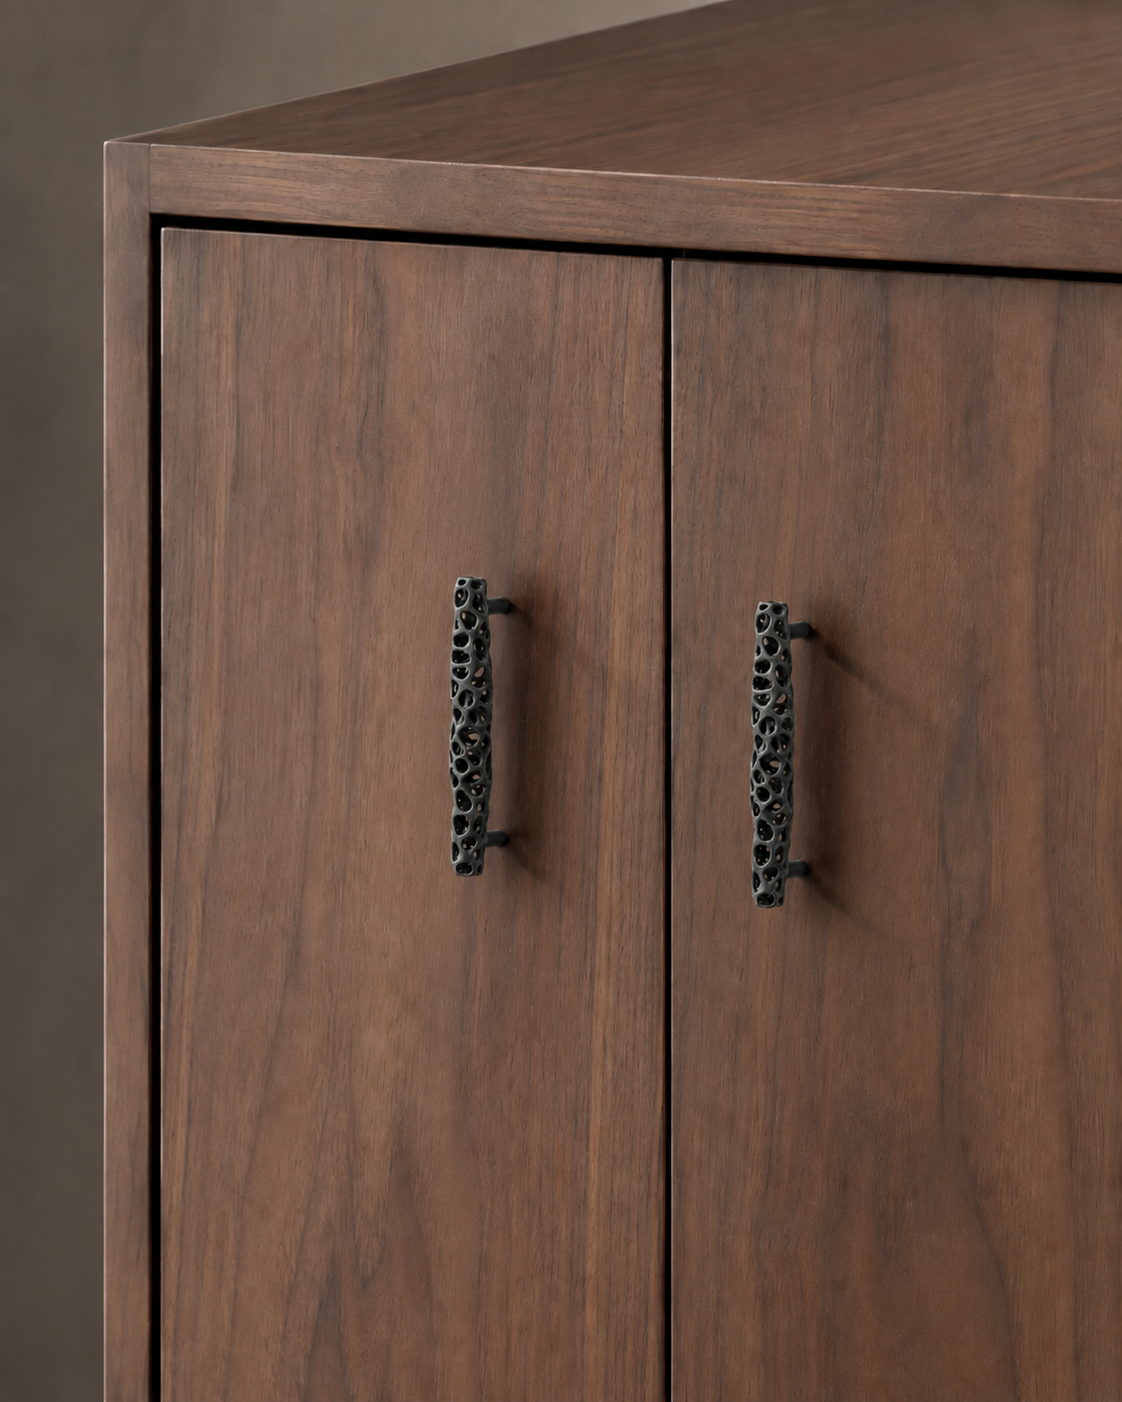
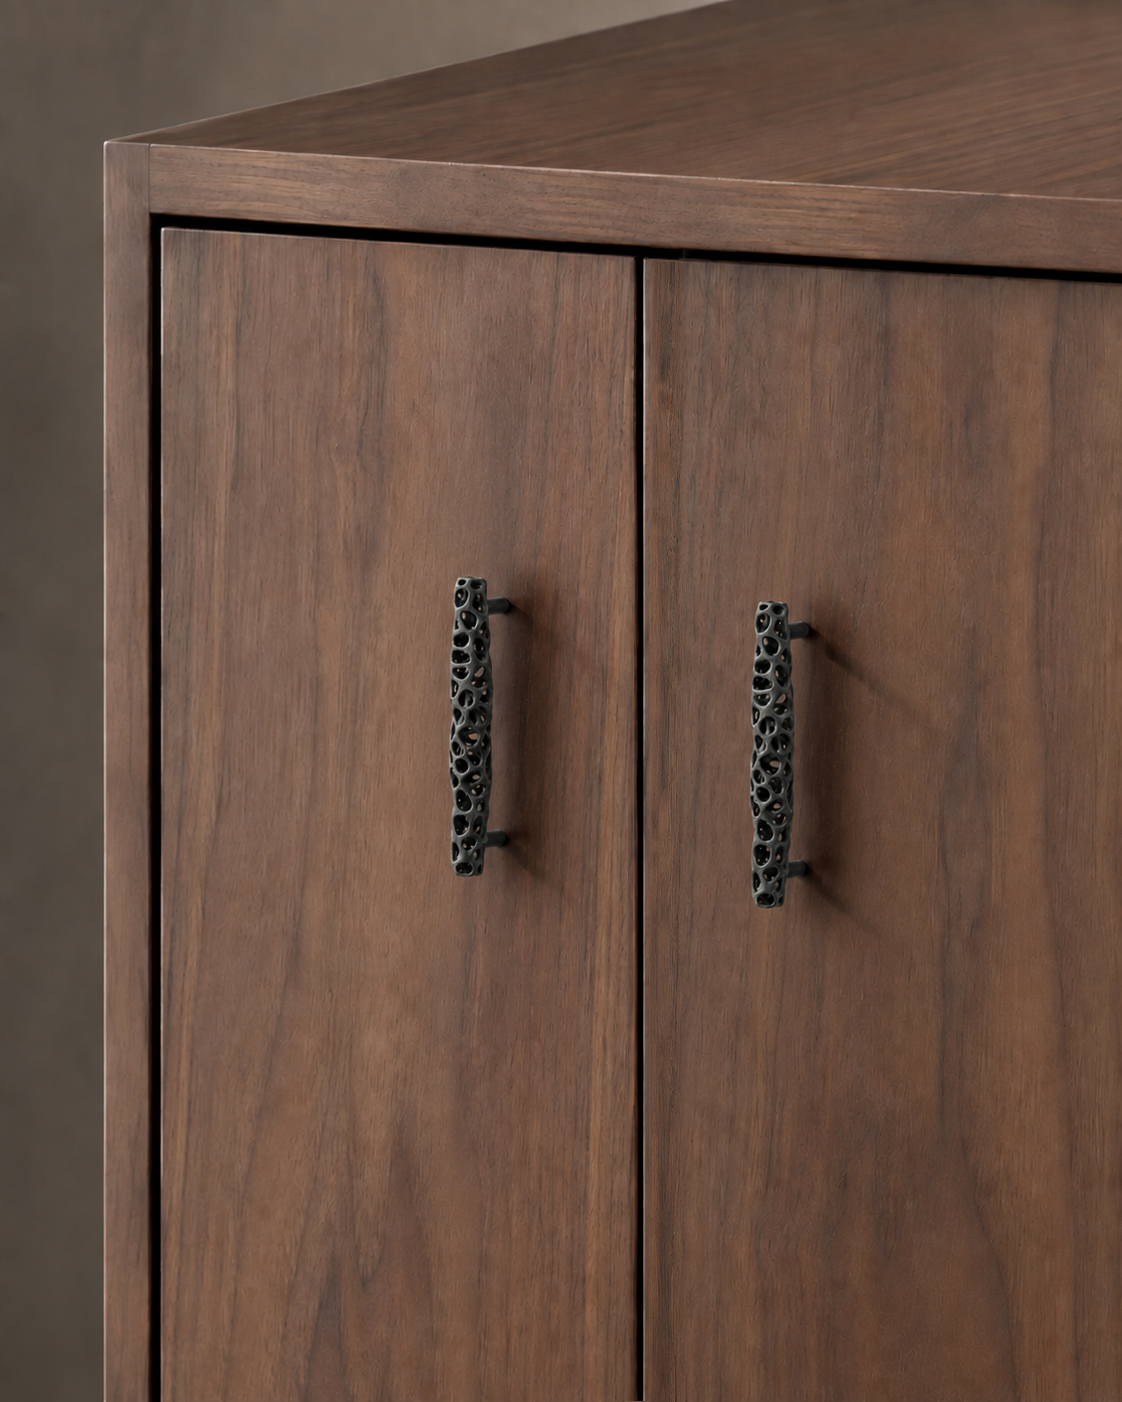
new assets

Changed region(s): [[0.5615, 0.184, 0.6239, 1.0]]

diff --git a/index.html b/index.html
@@ -56,7 +56,7 @@
     <div id="hero-slides" class="absolute inset-0 bg-stone-900" style="opacity:0;transition:opacity 600ms ease-in-out">
       <img id="hero-0" src="assets/5bb378fa3b6cbb00f861024bfca2927100ba3f88.jpg" alt="Studio" class="absolute inset-0 w-full h-full object-cover" style="opacity:1;transition:opacity 1500ms ease-in-out" />
       <img id="hero-1" src="assets/9938ab6682fc63e127dee83e1088543f4df50ad1.jpg" alt="Studio" class="absolute inset-0 w-full h-full object-cover" style="opacity:0;transition:opacity 1500ms ease-in-out" />
-      <img id="hero-4" src="assets/gyroid.png" alt="Gyroid lattice study" class="absolute inset-0 w-full h-full object-cover" style="opacity:0;transition:opacity 1500ms ease-in-out" />
+      <img id="hero-4" src="assets/dune2.png" alt="VOLDT Dune pulls on kitchen cabinetry" class="absolute inset-0 w-full h-full object-cover" style="opacity:0;transition:opacity 1500ms ease-in-out" />
       <img id="hero-2" src="assets/dec5396a8cc6e83670576a5d0a288c74f3074e6b.jpg" alt="Studio" class="absolute inset-0 w-full h-full object-cover" style="opacity:0;transition:opacity 1500ms ease-in-out" />
       <img id="hero-3" src="assets/204dfe37854bd8dd87119ad0e887bfd683da7398.jpg" alt="Pendants" class="absolute inset-0 w-full h-full object-cover" style="opacity:0;transition:opacity 1500ms ease-in-out" />
     </div>

diff --git a/shop-all.html b/shop-all.html
@@ -48,7 +48,7 @@
       { id:'dtlb', name:'Table Lamp B', category:'Detroit Lights', size:'2 sizes', img:'assets/f70e26754c5836fb0d7f077c0da565d8d4d3b7b3.jpg', hoverImg:'assets/620fdc99d9a2f8039d4fd6ab9718cecf6b27f8f9.jpg', link:'detroit-table-lamp.html?style=B' },
       { id:'pf-coffee', name:'Coffee Table', category:'PolyFrames', size:'Custom Built', img:'assets/90efc59c9eb30586b1c1fff261db8a917a4daff8.jpg', hoverImg:'assets/dec5396a8cc6e83670576a5d0a288c74f3074e6b.jpg', link:'polyframes-coffee-table.html' },
       { id:'dpb', name:'Pendant B', category:'Detroit Lights', size:'2 sizes', img:'assets/180fc790d95222d8b1e61a805e5d1a0cd85f30b0.jpg', hoverImg:'assets/d553197044225f86bdf58676f1b5016e67d7a92c.jpg', link:'detroit-pendant.html?style=B' },
-      { id:'hardware', name:'VOLDT Hardware', category:'Door pulls', size:'Configurable', img:'assets/914133ec573121502a172fcea0d7aaef759c00fe.jpg', hoverImg:'assets/composite3.jpg', link:'voldt-hardware.html' },
+      { id:'hardware', name:'VOLDT Hardware', category:'Door pulls', size:'Configurable', img:'assets/914133ec573121502a172fcea0d7aaef759c00fe.jpg', hoverImg:'assets/arroyo0.png', link:'voldt-hardware.html' },
     ];
     const grid = document.getElementById('product-grid');
     products.forEach(p => {

diff --git a/trade.html b/trade.html
@@ -148,10 +148,10 @@
             </div>
             <div class="grid grid-cols-2 gap-3">
               <div class="aspect-square overflow-hidden bg-stone-100">
-                <img src="assets/voronoi.png" alt="VOLDT Hardware finish" class="w-full h-full object-cover" />
+                <img src="assets/cella1.png" alt="VOLDT Cella pulls on a walnut sideboard and oak cabinet" class="w-full h-full object-cover" />
               </div>
               <div class="aspect-square overflow-hidden bg-stone-100">
-                <img src="assets/ap25_5.JPG" alt="VOLDT Hardware" class="w-full h-full object-cover" />
+                <img src="assets/ap25_5.jpg" alt="VOLDT Hardware" class="w-full h-full object-cover" />
               </div>
             </div>
           </div>

diff --git a/voldt-hardware.html b/voldt-hardware.html
@@ -250,14 +250,16 @@
     // --- Gallery slideshow ---
     (function(){
       const imgs = [
-        'assets/orange.jpg',
-        'assets/composite3.jpg',
-        'assets/ap25_5.JPG',
-        'assets/composite1.jpg',
-        'assets/914133ec573121502a172fcea0d7aaef759c00fe.jpg',
-        'assets/gourd.png',
         'assets/ap25_2.jpg',
+        'assets/cella2.png',
         'assets/composite.jpg',
+        'assets/orange.jpg',
+        'assets/arroyo0.png',
+        'assets/composite1.jpg',
+        'assets/dune1.png',
+        'assets/basin0.jpg',
+        'assets/cella0.png',
+        'assets/ap25_5.jpg',
       ];
       const FADE = 600; // ms
       const HOLD = 4000; // ms between advances
